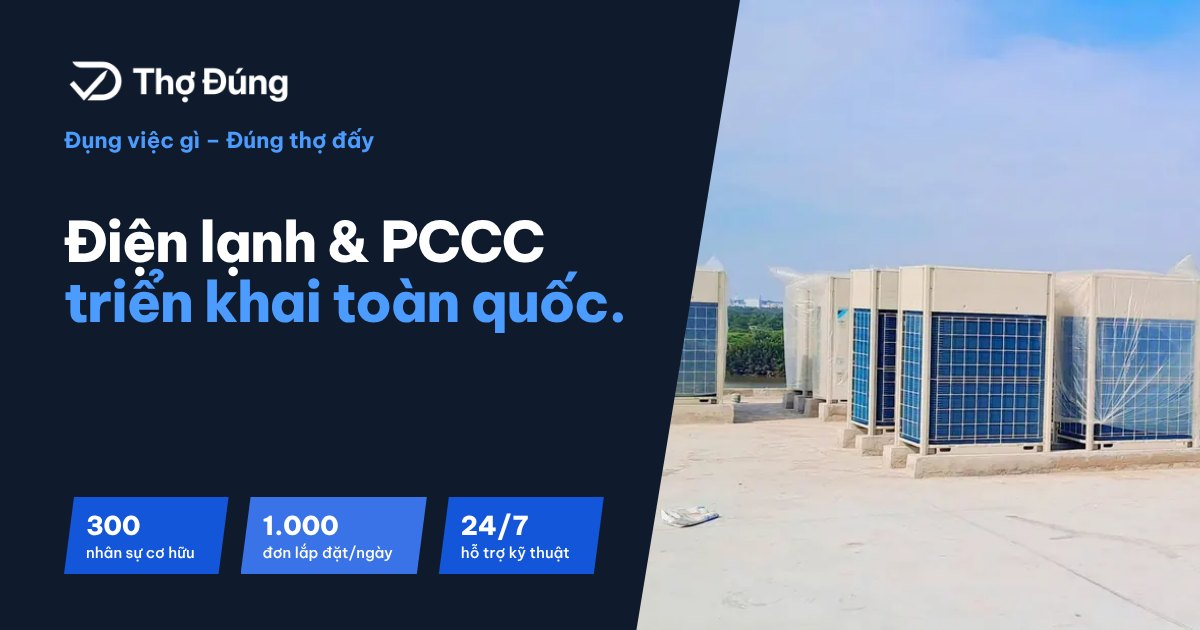
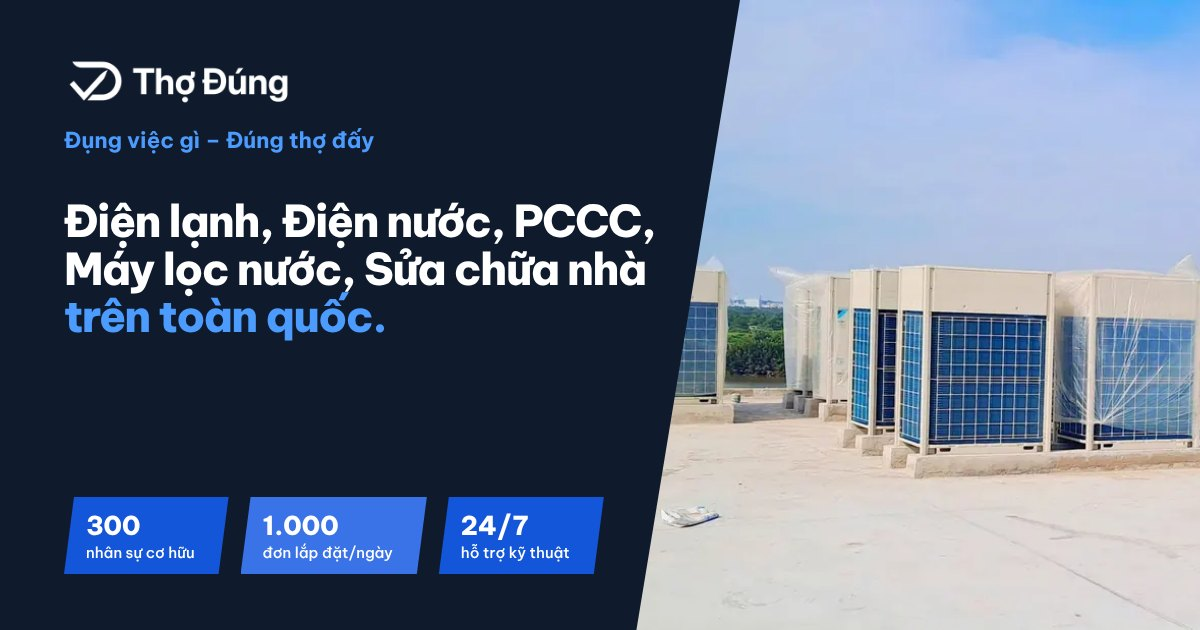
Add files via upload

Changed region(s): [[0.0308, 0.3016, 0.555, 0.5429]]

diff --git a/dich-vu/index.html b/dich-vu/index.html
@@ -3,15 +3,15 @@
 <head>
 <meta charset="utf-8">
 <meta name="viewport" content="width=device-width, initial-scale=1">
-<title>Dịch vụ lắp đặt, vệ sinh, sửa chữa điện lạnh &amp; PCCC | Thợ Đúng</title>
-<meta name="description" content="Dịch vụ lắp đặt, vệ sinh, bảo dưỡng, sửa chữa máy lạnh, tủ lạnh, máy giặt, máy nước nóng, máy lọc nước và PCCC tại nhà; thi công Chiller, VRV/VRF cho doanh nghiệp. Hỗ trợ 24/7 toàn quốc.">
+<title>Dịch vụ điện lạnh, điện nước, PCCC, máy lọc nước, sửa chữa nhà | Thợ Đúng</title>
+<meta name="description" content="Dịch vụ lắp đặt, vệ sinh, bảo dưỡng, sửa chữa máy lạnh, tủ lạnh, máy giặt, máy nước nóng, máy lọc nước, điện nước, sửa chữa nhà và PCCC tại nhà; thi công Chiller, VRV/VRF cho doanh nghiệp. Hỗ trợ 24/7 toàn quốc.">
 <link rel="canonical" href="https://www.thodung.co/dich-vu/">
 <meta name="theme-color" content="#0F1B2D">
 <meta property="og:type" content="website">
 <meta property="og:locale" content="vi_VN">
 <meta property="og:site_name" content="Thợ Đúng">
-<meta property="og:title" content="Dịch vụ điện lạnh, điện máy &amp; PCCC | Thợ Đúng">
-<meta property="og:description" content="Thiết kế, thi công, lắp đặt, bảo trì hệ thống điện lạnh và PCCC. 300 nhân sự cơ hữu, 1.000 đơn lắp đặt mỗi ngày, hỗ trợ 24/7.">
+<meta property="og:title" content="Dịch vụ điện lạnh, điện nước, PCCC, máy lọc nước, sửa chữa nhà | Thợ Đúng">
+<meta property="og:description" content="Điện lạnh, điện nước, PCCC, máy lọc nước, sửa chữa nhà. 300 nhân sự cơ hữu, 1.000 đơn lắp đặt mỗi ngày, hỗ trợ 24/7.">
 <meta property="og:url" content="https://www.thodung.co/dich-vu/">
 <meta property="og:image" content="https://www.thodung.co/assets/img/og-image.jpg">
 <meta name="twitter:card" content="summary_large_image">
@@ -155,8 +155,8 @@
   <div class="wrap">
     <div>
       <nav class="crumbs" aria-label="Breadcrumb"><a href="/">Trang chủ</a><span aria-hidden="true">/</span><span aria-current="page">Dịch vụ</span></nav>
-      <h1 id="dv-title">Dịch vụ điện lạnh, điện máy &amp; PCCC.</h1>
-      <p>Lắp đặt, vệ sinh, bảo dưỡng và sửa chữa tại nhà; thi công và bảo trì hệ thống cho doanh nghiệp. Hỗ trợ kỹ thuật 24/7 trên toàn quốc.</p>
+      <h1 id="dv-title">Điện lạnh, điện nước, PCCC &amp; sửa chữa nhà.</h1>
+      <p>Lắp đặt, vệ sinh, bảo dưỡng và sửa chữa thiết bị, điện nước, nhà cửa tại nhà; thi công và bảo trì hệ thống cho doanh nghiệp. Hỗ trợ kỹ thuật 24/7 trên toàn quốc.</p>
       <div class="hero__actions">
         <a class="btn btn--light" href="#dat-lich">Đặt lịch ngay</a>
         <a class="btn btn--outline-light" href="tel:+84983050905">Gọi 0983 05 09 05</a>
@@ -182,7 +182,7 @@
         <p class="kicker">Dịch vụ tại nhà</p>
         <h2 id="cat-title">Chọn thiết bị, chọn việc cần làm.</h2>
       </div>
-      <p>Lọc theo hạng mục để xem nhanh những việc Thợ Đúng nhận làm cho từng loại thiết bị.</p>
+      <p>Lọc theo hạng mục để xem nhanh những việc Thợ Đúng nhận làm cho từng loại thiết bị và hạng mục.</p>
     </div>
 
     <div class="filters" data-filter-bar role="group" aria-label="Lọc theo hạng mục">
@@ -208,6 +208,24 @@
             <li data-type="di-doi">Tháo, di dời máy lạnh<span class="type">Di dời</span></li>
           </ul>
           <a class="link cat__book" href="#dat-lich" data-book="Máy lạnh, điều hòa">Đặt lịch máy lạnh</a>
+        </div>
+      </article>
+
+      <article class="cat" id="dien-nuoc">
+        <span class="cat__icon"><svg class="ic" aria-hidden="true"><use href="/assets/img/icons.svg#i-zap"/></svg></span>
+        <div>
+          <h3>Điện nước</h3>
+          <p class="cat__desc">Hệ thống điện, cấp thoát nước cho nhà ở, cửa hàng, văn phòng.</p>
+          <ul class="cat__jobs">
+            <li data-type="lap-dat">Đi mới, sửa đường điện âm tường, nổi<span class="type">Lắp đặt</span></li>
+            <li data-type="lap-dat">Lắp ổ cắm, công tắc, đèn, quạt trần, CB<span class="type">Lắp đặt</span></li>
+            <li data-type="lap-dat">Lắp thiết bị vệ sinh: lavabo, bồn cầu, vòi sen<span class="type">Lắp đặt</span></li>
+            <li data-type="lap-dat">Lắp máy bơm nước, bồn nước, máy lọc tổng<span class="type">Lắp đặt</span></li>
+            <li data-type="sua-chua">Sửa chập điện, mất điện, nhảy CB<span class="type">Sửa chữa</span></li>
+            <li data-type="sua-chua">Sửa rò rỉ, thông tắc đường ống nước<span class="type">Sửa chữa</span></li>
+            <li data-type="bao-duong">Kiểm tra định kỳ hệ thống điện, nước<span class="type">Bảo dưỡng</span></li>
+          </ul>
+          <a class="link cat__book" href="#dat-lich" data-book="Điện nước">Đặt lịch điện nước</a>
         </div>
       </article>
 
@@ -308,6 +326,24 @@
             <li data-type="bao-duong">Bảo trì định kỳ kèm báo cáo<span class="type">Bảo dưỡng</span></li>
           </ul>
           <a class="link cat__book" href="#dat-lich" data-book="PCCC">Đặt lịch tư vấn PCCC</a>
+        </div>
+      </article>
+
+      <article class="cat" id="sua-chua-nha">
+        <span class="cat__icon"><svg class="ic" aria-hidden="true"><use href="/assets/img/icons.svg#i-hard-hat"/></svg></span>
+        <div>
+          <h3>Sửa chữa nhà</h3>
+          <p class="cat__desc">Chống thấm, sơn sửa, ốp lát và cải tạo nhỏ cho nhà ở.</p>
+          <ul class="cat__jobs">
+            <li data-type="sua-chua">Chống thấm sàn, mái, tường, nhà vệ sinh<span class="type">Sửa chữa</span></li>
+            <li data-type="sua-chua">Sơn sửa tường trong và ngoài nhà<span class="type">Sửa chữa</span></li>
+            <li data-type="sua-chua">Ốp lát, thay gạch nền, gạch tường<span class="type">Sửa chữa</span></li>
+            <li data-type="sua-chua">Sửa trần thạch cao, mái tôn, máng xối<span class="type">Sửa chữa</span></li>
+            <li data-type="sua-chua">Sửa cửa, khóa, bản lề<span class="type">Sửa chữa</span></li>
+            <li data-type="lap-dat">Cải tạo nhà vệ sinh, khu bếp<span class="type">Lắp đặt</span></li>
+            <li data-type="lap-dat">Lắp rèm, kệ, giá treo<span class="type">Lắp đặt</span></li>
+          </ul>
+          <a class="link cat__book" href="#dat-lich" data-book="Sửa chữa nhà">Đặt lịch sửa chữa nhà</a>
         </div>
       </article>
     </div>
@@ -448,6 +484,8 @@
             <option>Máy lọc nước</option>
             <option>Tivi</option>
             <option>Bếp từ, máy hút mùi, máy rửa chén</option>
+            <option>Điện nước</option>
+            <option>Sửa chữa nhà</option>
             <option>PCCC</option>
             <option>Khác</option>
           </select></div>
@@ -505,6 +543,8 @@
           <li><a href="/#dich-vu">Thi công PCCC</a></li>
           <li><a href="/#dich-vu">Bảo trì &amp; sửa chữa 24/7</a></li>
           <li><a href="/#dich-vu">Tiết kiệm năng lượng</a></li>
+          <li><a href="/dich-vu/#dien-nuoc">Điện nước</a></li>
+          <li><a href="/dich-vu/#sua-chua-nha">Sửa chữa nhà</a></li>
           <li><a href="/dich-vu/">Dịch vụ tại nhà</a></li>
         </ul>
       </div>

diff --git a/index.html b/index.html
@@ -3,15 +3,15 @@
 <head>
 <meta charset="utf-8">
 <meta name="viewport" content="width=device-width, initial-scale=1">
-<title>Thợ Đúng | Thi công Điện lạnh &amp; PCCC toàn quốc</title>
-<meta name="description" content="Thợ Đúng cung cấp giải pháp thiết kế, thi công, lắp đặt, bảo trì hệ thống điện lạnh và PCCC với năng lực vận hành quy mô lớn trên toàn quốc: 300 nhân sự cơ hữu, 1.000 đơn lắp đặt mỗi ngày, hỗ trợ 24/7.">
+<title>Thợ Đúng | Điện lạnh, Điện nước, PCCC, Máy lọc nước, Sửa chữa nhà toàn quốc</title>
+<meta name="description" content="Thợ Đúng thi công, lắp đặt, bảo trì và sửa chữa điện lạnh, điện nước, PCCC, máy lọc nước và nhà ở trên toàn quốc: 300 nhân sự cơ hữu, 1.000 đơn lắp đặt mỗi ngày, hỗ trợ 24/7.">
 <link rel="canonical" href="https://www.thodung.co/">
 <meta name="theme-color" content="#0F1B2D">
 <meta property="og:type" content="website">
 <meta property="og:locale" content="vi_VN">
 <meta property="og:site_name" content="Thợ Đúng">
-<meta property="og:title" content="Thợ Đúng | Thi công Điện lạnh &amp; PCCC toàn quốc">
-<meta property="og:description" content="Thiết kế, thi công, lắp đặt, bảo trì hệ thống điện lạnh và PCCC. 300 nhân sự cơ hữu, 1.000 đơn lắp đặt mỗi ngày, hỗ trợ 24/7.">
+<meta property="og:title" content="Thợ Đúng | Điện lạnh, Điện nước, PCCC, Máy lọc nước, Sửa chữa nhà toàn quốc">
+<meta property="og:description" content="Điện lạnh, điện nước, PCCC, máy lọc nước, sửa chữa nhà. 300 nhân sự cơ hữu, 1.000 đơn lắp đặt mỗi ngày, hỗ trợ 24/7.">
 <meta property="og:url" content="https://www.thodung.co/">
 <meta property="og:image" content="https://www.thodung.co/assets/img/og-image.jpg">
 <meta name="twitter:card" content="summary_large_image">
@@ -108,8 +108,8 @@
   <div class="wrap hero__grid">
     <div class="hero__copy">
       <p class="kicker">Đụng việc gì – Đúng thợ đấy</p>
-      <h1 id="hero-title">Điện lạnh &amp; PCCC <span class="line2">triển khai toàn quốc.</span></h1>
-      <p class="hero__lead">Thợ Đúng thiết kế, thi công, lắp đặt và bảo trì hệ thống điện lạnh, PCCC cho doanh nghiệp và hộ gia đình, với đội ngũ 300 nhân sự cơ hữu và năng lực 1.000 đơn lắp đặt mỗi ngày.</p>
+      <h1 id="hero-title" class="hero__title--list">Điện&nbsp;lạnh, Điện&nbsp;nước, PCCC, Máy&nbsp;lọc&nbsp;nước, Sửa&nbsp;chữa&nbsp;nhà <span class="line2">trên toàn quốc.</span></h1>
+      <p class="hero__lead">Thợ Đúng thi công, lắp đặt, bảo trì và sửa chữa điện lạnh, điện nước, PCCC, máy lọc nước và nhà ở cho doanh nghiệp và hộ gia đình, với đội ngũ 300 nhân sự cơ hữu và năng lực 1.000 đơn lắp đặt mỗi ngày.</p>
       <div class="hero__actions">
         <a class="btn" href="#lien-he">Nhận tư vấn dự án</a>
         <a class="btn btn--ghost" href="/dich-vu/#dat-lich">Đặt lịch dịch vụ tại nhà</a>
@@ -187,8 +187,8 @@
         <span class="audience__icon"><svg class="ic" aria-hidden="true"><use href="/assets/img/icons.svg#i-house"/></svg></span>
         <div>
           <h3>Cho hộ gia đình</h3>
-          <p>Lắp đặt, vệ sinh, bảo dưỡng và sửa chữa máy lạnh cùng các thiết bị điện máy tại nhà.</p>
-          <ul><li>Máy lạnh</li><li>Tủ lạnh</li><li>Máy giặt</li><li>Máy nước nóng</li><li>PCCC nhà ở</li></ul>
+          <p>Lắp đặt, vệ sinh, sửa chữa máy lạnh, thiết bị điện máy, điện nước và sửa chữa nhà tận nơi.</p>
+          <ul><li>Máy lạnh</li><li>Điện nước</li><li>Máy lọc nước</li><li>Sửa chữa nhà</li><li>PCCC nhà ở</li></ul>
           <span class="link">Xem dịch vụ tại nhà</span>
         </div>
       </a>
@@ -300,7 +300,7 @@
     <div class="section-head">
       <div>
         <p class="kicker">Dịch vụ tại nhà</p>
-        <h2 id="home-title">Lắp đặt, vệ sinh và sửa chữa thiết bị tại nhà.</h2>
+        <h2 id="home-title">Điện lạnh, điện nước và sửa chữa nhà tận nơi.</h2>
       </div>
       <p>Đặt lịch qua website, hotline hoặc Zalo. Kỹ thuật viên được điều phối theo khu vực và đến tận nơi.</p>
     </div>
@@ -310,6 +310,12 @@
         <h3>Máy lạnh, điều hòa</h3>
         <p>Treo tường, âm trần, tủ đứng, multi</p>
         <div class="actions"><span>Lắp đặt</span><span>Vệ sinh</span><span>Sửa chữa</span><span>Di dời</span></div>
+      </a>
+      <a class="device" href="/dich-vu/#dien-nuoc">
+        <span class="device__icon"><svg class="ic" aria-hidden="true"><use href="/assets/img/icons.svg#i-zap"/></svg></span>
+        <h3>Điện nước</h3>
+        <p>Đường điện, ống nước, thiết bị vệ sinh</p>
+        <div class="actions"><span>Lắp đặt</span><span>Sửa chữa</span><span>Thông tắc</span></div>
       </a>
       <a class="device" href="/dich-vu/#tu-lanh">
         <span class="device__icon"><svg class="ic" aria-hidden="true"><use href="/assets/img/icons.svg#i-refrigerator"/></svg></span>
@@ -352,6 +358,12 @@
         <h3>PCCC nhà ở</h3>
         <p>Nhà phố, biệt thự</p>
         <div class="actions"><span>Tư vấn</span><span>Thi công</span><span>Bảo trì</span></div>
+      </a>
+      <a class="device" href="/dich-vu/#sua-chua-nha">
+        <span class="device__icon"><svg class="ic" aria-hidden="true"><use href="/assets/img/icons.svg#i-hard-hat"/></svg></span>
+        <h3>Sửa chữa nhà</h3>
+        <p>Chống thấm, sơn sửa, ốp lát, cải tạo</p>
+        <div class="actions"><span>Chống thấm</span><span>Sơn sửa</span><span>Cải tạo</span></div>
       </a>
     </div>
     <div class="devices-foot">
@@ -665,6 +677,8 @@
             <option>Bảo trì, sửa chữa</option>
             <option>Tư vấn tiết kiệm năng lượng</option>
             <option>Lắp đặt số lượng lớn (hợp tác)</option>
+            <option>Điện nước</option>
+            <option>Sửa chữa nhà</option>
             <option>Dịch vụ tại nhà</option>
           </select><span class="err" aria-live="polite"></span></div>
         <div class="field"><label for="f-area">Khu vực</label><input id="f-area" name="area" placeholder="Tỉnh / thành phố" autocomplete="address-level1"></div>
@@ -708,6 +722,8 @@
           <li><a href="/#dich-vu">Thi công PCCC</a></li>
           <li><a href="/#dich-vu">Bảo trì &amp; sửa chữa 24/7</a></li>
           <li><a href="/#dich-vu">Tiết kiệm năng lượng</a></li>
+          <li><a href="/dich-vu/#dien-nuoc">Điện nước</a></li>
+          <li><a href="/dich-vu/#sua-chua-nha">Sửa chữa nhà</a></li>
           <li><a href="/dich-vu/">Dịch vụ tại nhà</a></li>
         </ul>
       </div>

diff --git a/assets/css/style.css b/assets/css/style.css
@@ -143,6 +143,8 @@ button,input,select,textarea{font:inherit;color:inherit}
 .hero__copy{position:relative;z-index:2;display:flex;flex-direction:column;justify-content:center;padding:clamp(48px,6vw,96px) clamp(24px,4vw,64px) clamp(48px,6vw,96px) 0}
 .hero h1{font-size:var(--step-5);line-height:1.04;letter-spacing:-.035em;color:var(--navy)}
 .hero h1 .line2{display:block;color:var(--blue)}
+.hero h1.hero__title--list{font-size:clamp(2.1rem,1.3rem + 2.3vw,3.4rem);line-height:1.08}
+
 .hero__lead{margin-top:26px;font-size:var(--step-1);color:var(--muted);max-width:44ch;line-height:1.6}
 .hero__actions{display:flex;flex-wrap:wrap;gap:14px;margin-top:36px}
 .hero__hotline{display:flex;align-items:center;gap:14px;margin-top:36px;padding-top:26px;border-top:1px solid var(--line);max-width:520px}
@@ -225,8 +227,8 @@ button,input,select,textarea{font:inherit;color:inherit}
 .svc__media .stamp{position:absolute;left:0;bottom:0;background:var(--navy);color:#fff;padding:12px 30px 12px 20px;font-weight:700;font-size:var(--step--1);clip-path:polygon(0 0,100% 0,calc(100% - 16px) 100%,0 100%)}
 
 /* ---------- Home-service device grid ---------- */
-.devices{display:grid;grid-template-columns:repeat(4,minmax(0,1fr));border-top:1px solid var(--line);border-left:1px solid var(--line)}
-.device{display:flex;flex-direction:column;gap:14px;padding:28px 26px 26px;border-right:1px solid var(--line);border-bottom:1px solid var(--line);background:#fff;text-decoration:none;transition:background-color .2s}
+.devices{display:grid;grid-template-columns:repeat(5,minmax(0,1fr));border-top:1px solid var(--line);border-left:1px solid var(--line)}
+.device{display:flex;flex-direction:column;gap:14px;padding:26px 22px 24px;border-right:1px solid var(--line);border-bottom:1px solid var(--line);background:#fff;text-decoration:none;transition:background-color .2s}
 .device:hover{background:var(--paper)}
 .device__icon{width:52px;height:52px;display:grid;place-items:center;background:var(--navy);color:#fff}
 .device__icon .ic{width:26px;height:26px}
@@ -522,6 +524,7 @@ button,input,select,textarea{font:inherit;color:inherit}
   .topbar{display:none}
   .brand img{height:34px}
   .hero h1{font-size:clamp(2.35rem,9.6vw,3.2rem)}
+  .hero h1.hero__title--list{font-size:clamp(1.9rem,7.6vw,2.5rem)}
   .hero__actions .btn{flex:1 1 100%}
   .hero__caption{left:var(--gutter);right:var(--gutter);max-width:none;bottom:24px}
   .ledger__row{grid-template-columns:1fr 1fr;gap:6px}

diff --git a/404.html b/404.html
@@ -10,7 +10,7 @@
 <meta property="og:type" content="website">
 <meta property="og:locale" content="vi_VN">
 <meta property="og:site_name" content="Thợ Đúng">
-<meta property="og:title" content="Thợ Đúng | Thi công Điện lạnh &amp; PCCC toàn quốc">
+<meta property="og:title" content="Thợ Đúng | Điện lạnh, Điện nước, PCCC, Máy lọc nước, Sửa chữa nhà toàn quốc">
 <meta property="og:description" content="Thiết kế, thi công, lắp đặt, bảo trì hệ thống điện lạnh và PCCC. 300 nhân sự cơ hữu, 1.000 đơn lắp đặt mỗi ngày, hỗ trợ 24/7.">
 <meta property="og:url" content="https://www.thodung.co/">
 <meta property="og:image" content="https://www.thodung.co/assets/img/og-image.jpg">
@@ -122,6 +122,8 @@
           <li><a href="/#dich-vu">Thi công PCCC</a></li>
           <li><a href="/#dich-vu">Bảo trì &amp; sửa chữa 24/7</a></li>
           <li><a href="/#dich-vu">Tiết kiệm năng lượng</a></li>
+          <li><a href="/dich-vu/#dien-nuoc">Điện nước</a></li>
+          <li><a href="/dich-vu/#sua-chua-nha">Sửa chữa nhà</a></li>
           <li><a href="/dich-vu/">Dịch vụ tại nhà</a></li>
         </ul>
       </div>
